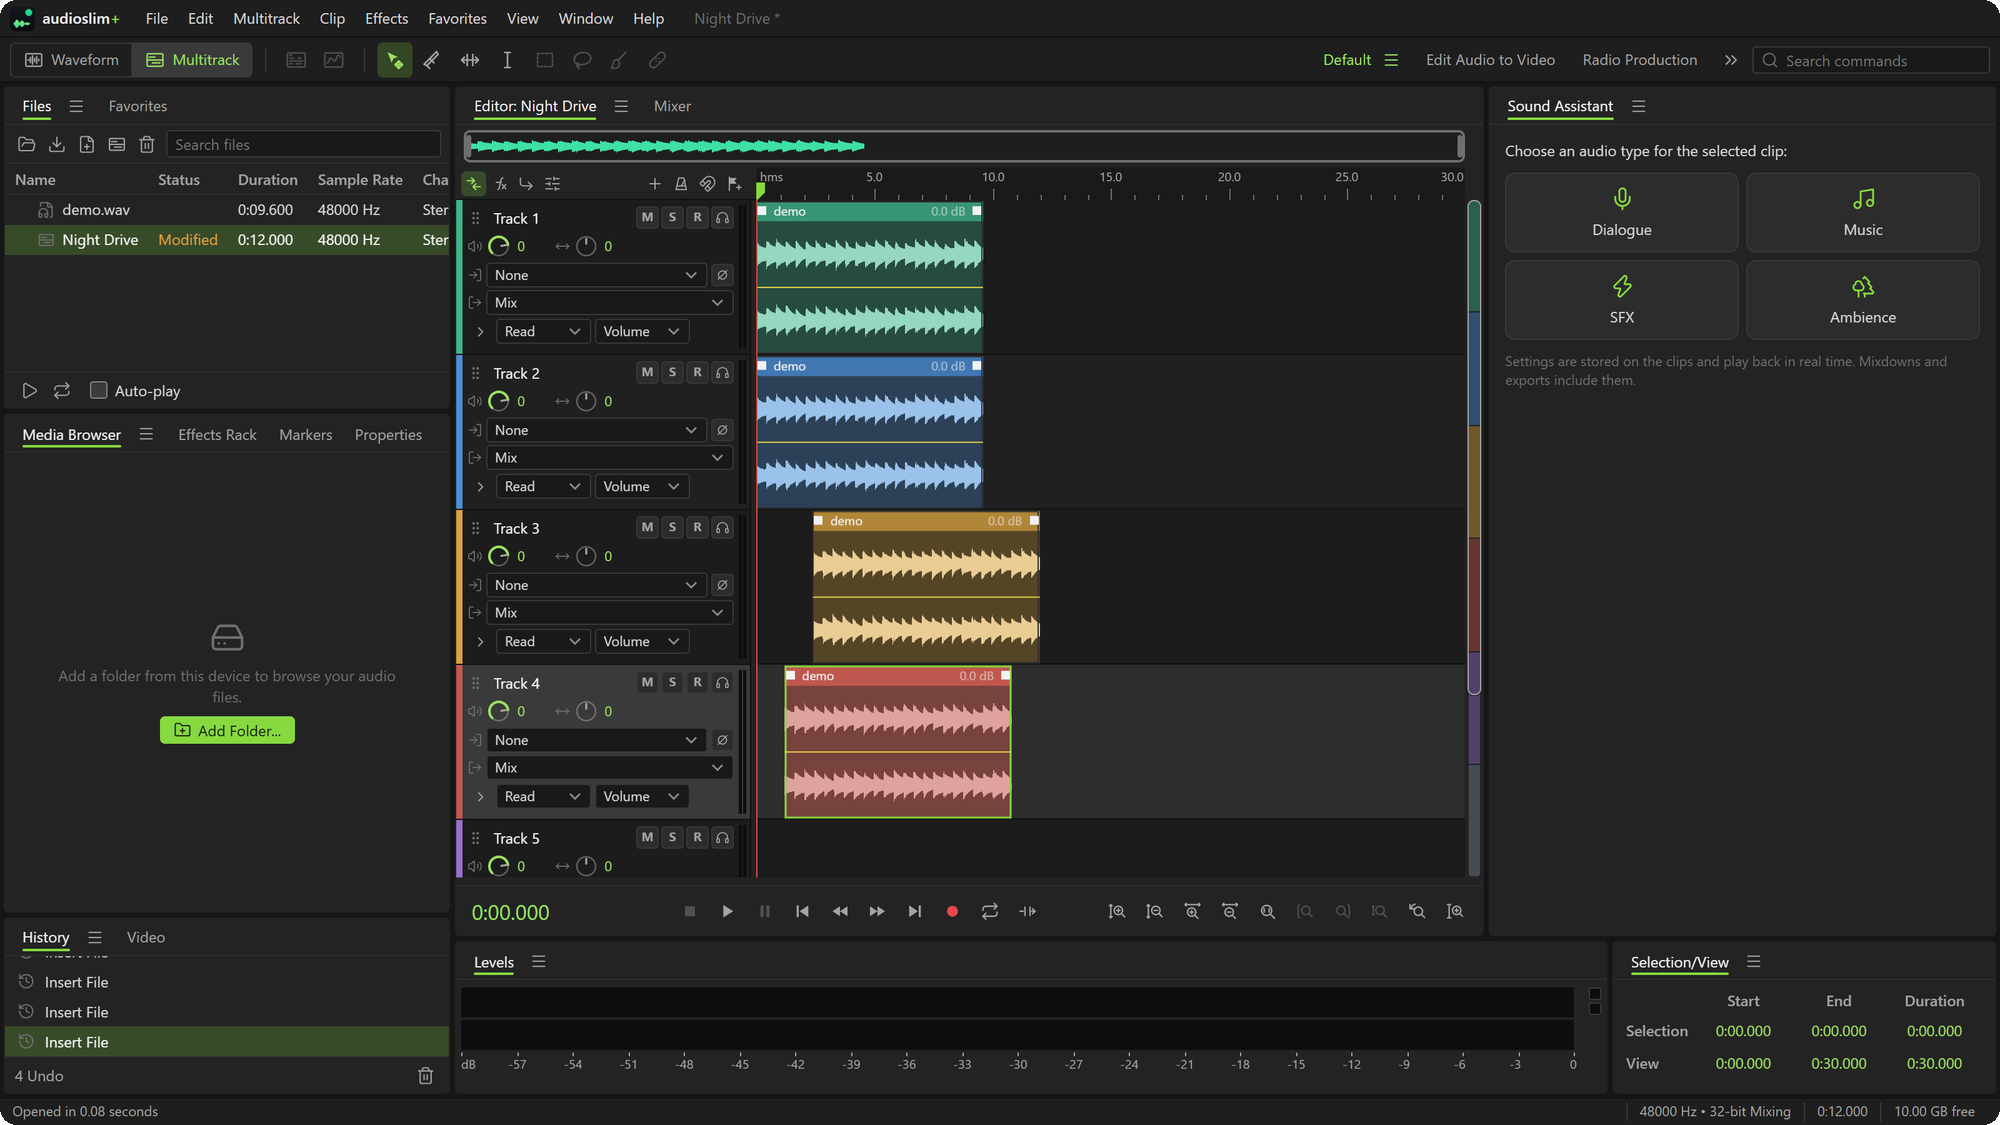
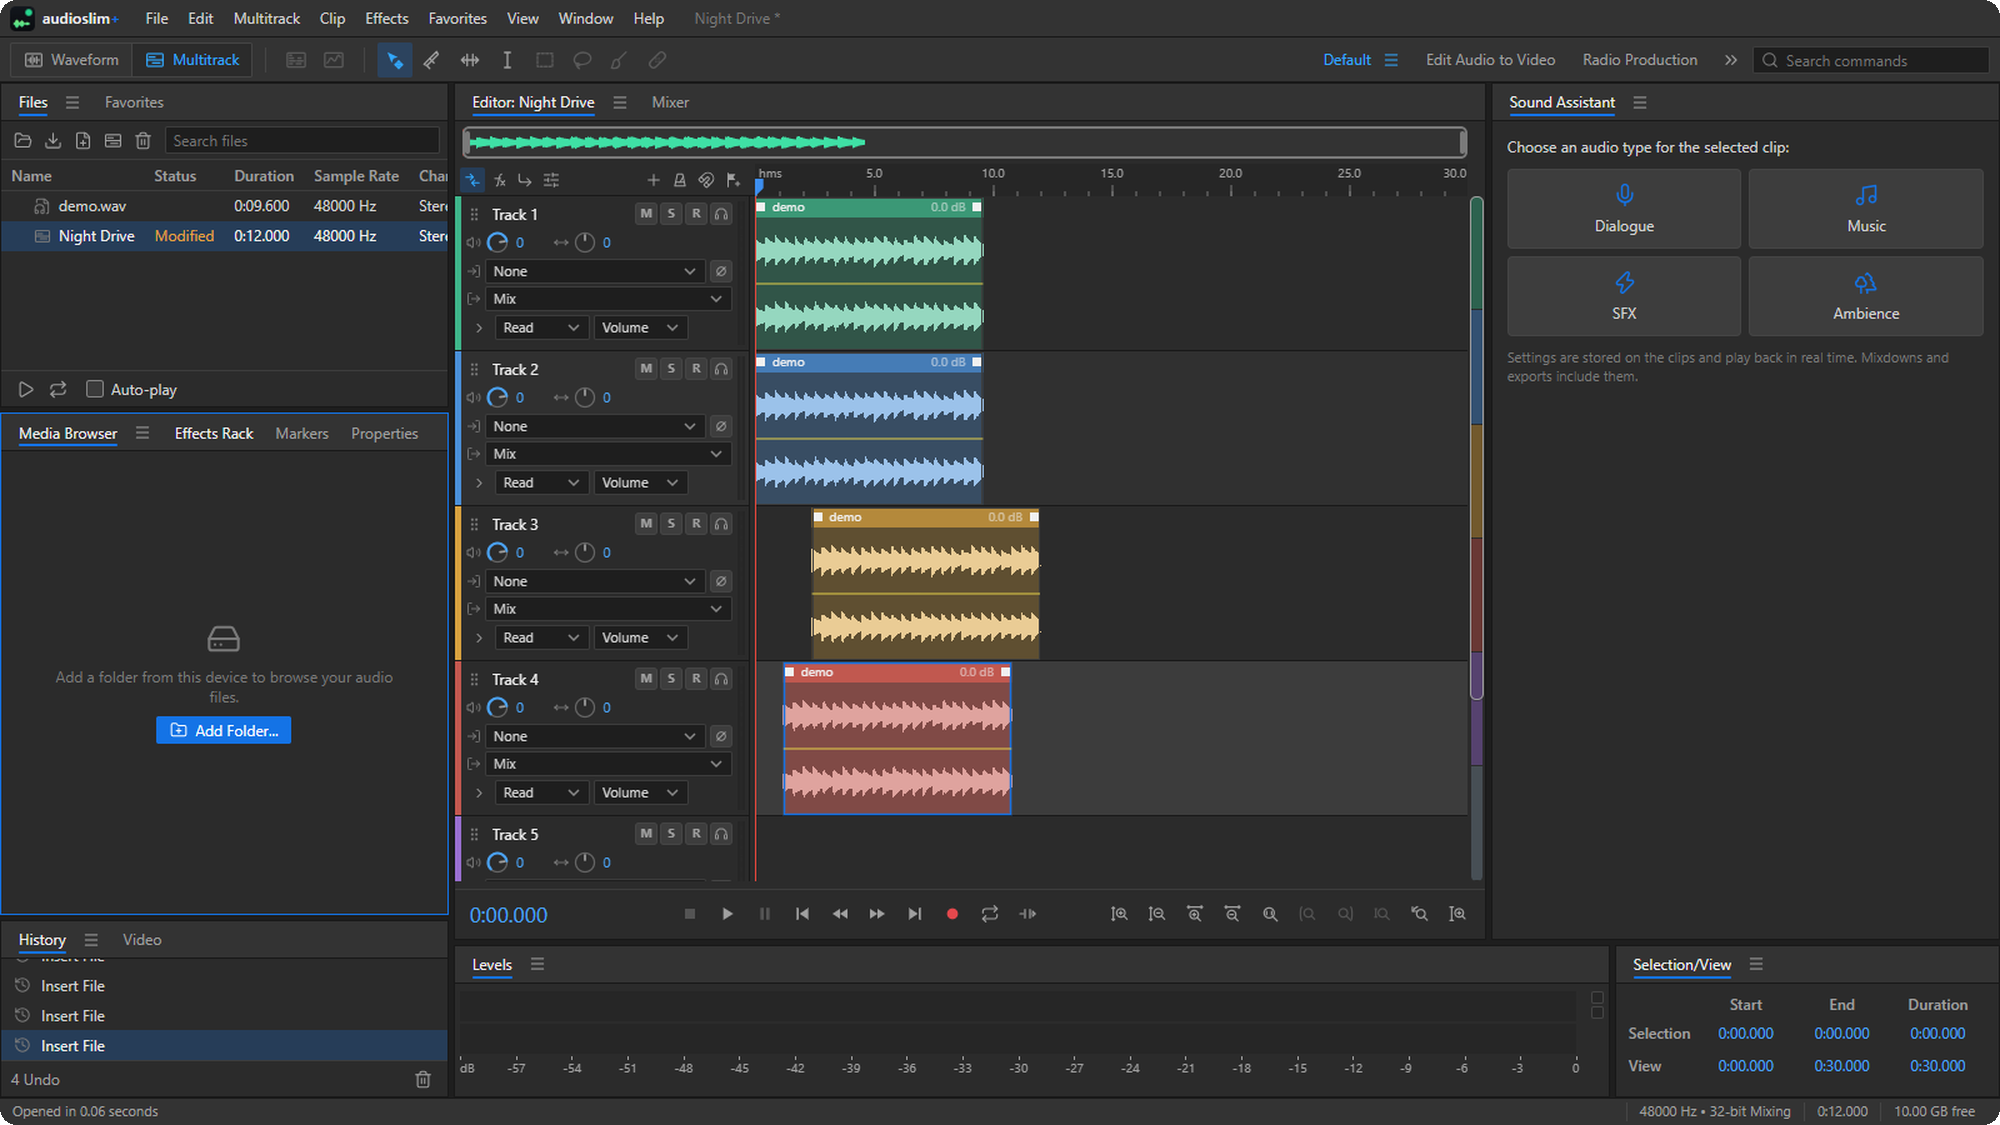
Restyle the interface after a Photoshop workspace
- The dark theme is now the classic Photoshop palette: a #1e1e1e pasteboard,
  #2b2b2b panels, flat gray controls and a #1473e6 accent.
- Panels are square and packed with hairline separators, the way a Photoshop
  dock is, and the corners are tighter throughout.
- The blue accent is the default; the audioslim+ lime stays available under
  Preferences > Appearance.
- Screenshots refreshed with the new look.

diff --git a/src/styles/tokens.css b/src/styles/tokens.css
@@ -1,6 +1,7 @@
-/* Design tokens. Dark is the default look of a pro audio workspace; light keeps
-   the same hierarchy with inverted surfaces. data-theme-resolved is set by
-   theme.js before first paint (see index.html). */
+/* Design tokens. The dark theme is the classic Photoshop workspace: a
+   medium-dark gray pasteboard, slightly lighter panels, flat gray controls and
+   a blue accent. Light keeps the same hierarchy with inverted surfaces.
+   data-theme-resolved is set by theme.js before first paint (see index.html). */
 
 :root {
   --font-ui: system-ui, -apple-system, 'Segoe UI', Roboto, 'Helvetica Neue', Arial, sans-serif;
@@ -10,50 +11,51 @@
   --fs-md: 12px;
   --fs-lg: 14px;
   --fs-xl: 18px;
-  --radius-sm: 3px;
-  --radius: 4px;
-  --radius-lg: 8px;
+  --radius-sm: 2px;
+  --radius: 2px;
+  --radius-lg: 4px;
   --row: 24px;
   --control: 22px;
   --tab: 30px;
   --gap: 6px;
-  --ease: cubic-bezier(0.2, 0, 0, 1);
+  --ease: cubic-bezier(0.2, 0, 1);
 }
 
 :root,
 :root[data-theme-resolved='dark'] {
   color-scheme: dark;
-  --bg-app: #161616;
-  --bg-panel: #232323;
-  --bg-panel-alt: #1e1e1e;
-  --bg-raised: #2c2c2c;
-  --bg-input: #191919;
-  --bg-hover: #303030;
-  --bg-active: #3a3a3a;
-  --bg-editor: #050505;
-  --bg-track: #1c1c1c;
-  --bg-track-alt: #202020;
-  --bg-ruler: #1a1a1a;
-  --border: #111111;
-  --border-soft: #2f2f2f;
-  --divider: #383838;
-  --text: #d6d6d6;
-  --text-strong: #f2f2f2;
-  --text-dim: #a3a3a3;
-  --text-faint: #6f6f6f;
-  --accent: #2d8ceb;
-  --accent-strong: #4aa3f5;
+  /* The workspace behind the panels, and the pasteboard around the audio. */
+  --bg-app: #1e1e1e;
+  --bg-panel: #2b2b2b;
+  --bg-panel-alt: #333333;
+  --bg-raised: #3d3d3d;
+  --bg-input: #1e1e1e;
+  --bg-hover: #474747;
+  --bg-active: #2b2b2b;
+  --bg-editor: #1e1e1e;
+  --bg-track: #2b2b2b;
+  --bg-track-alt: #303030;
+  --bg-ruler: #262626;
+  --border: #181818;
+  --border-soft: #3d3d3d;
+  --divider: #454545;
+  --text: #d4d4d4;
+  --text-strong: #f0f0f0;
+  --text-dim: #a0a0a0;
+  --text-faint: #7a7a7a;
+  --accent: #1473e6;
+  --accent-strong: #31a8ff;
   --accent-text: #ffffff;
-  --accent-soft: rgba(45, 140, 235, 0.22);
-  --hot: #4ea6f2;
-  --focus: #5aaeff;
+  --accent-soft: rgba(20, 115, 230, 0.24);
+  --hot: #4aa3f5;
+  --focus: #31a8ff;
   --wave: #3fe0a5;
   --wave-2: #6cb6ff;
   --wave-3: #f2b04c;
   --wave-4: #e47ad6;
   --wave-dim: #227a5b;
   --wave-sel: #b7ffe4;
-  --wave-center: #1b3d31;
+  --wave-center: #24443a;
   --grid: rgba(255, 255, 255, 0.06);
   --grid-strong: rgba(255, 255, 255, 0.12);
   --wave-grid: rgba(52, 199, 89, 0.16);
@@ -70,34 +72,34 @@
   --meter-green: #2fbf57;
   --meter-yellow: #d6c33a;
   --meter-red: #e5484d;
-  --meter-bg: #0d0d0d;
+  --meter-bg: #262626;
   --envelope-vol: #e5d14a;
   --envelope-pan: #4aa3f5;
   --clip-header: rgba(255, 255, 255, 0.09);
-  --overlay: rgba(0, 0, 0, 0.55);
-  --scrollbar: #444;
+  --overlay: rgba(0, 0, 0, 0.6);
+  --scrollbar: #5a5a5a;
 }
 
 :root[data-theme-resolved='light'] {
   color-scheme: light;
   --bg-app: #d4d4d4;
-  --bg-panel: #ececec;
-  --bg-panel-alt: #e4e4e4;
+  --bg-panel: #e8e8e8;
+  --bg-panel-alt: #f0f0f0;
   --bg-raised: #f7f7f7;
   --bg-input: #ffffff;
-  --bg-hover: #dddddd;
-  --bg-active: #d0d0d0;
-  --bg-editor: #fbfbfb;
+  --bg-hover: #dadada;
+  --bg-active: #c9c9c9;
+  --bg-editor: #ededed;
   --bg-track: #f3f3f3;
   --bg-track-alt: #eeeeee;
-  --bg-ruler: #e6e6e6;
-  --border: #c2c2c2;
-  --border-soft: #d6d6d6;
-  --divider: #c8c8c8;
-  --text: #2a2a2a;
+  --bg-ruler: #e2e2e2;
+  --border: #b8b8b8;
+  --border-soft: #c8c8c8;
+  --divider: #bcbcbc;
+  --text: #2b2b2b;
   --text-strong: #111111;
-  --text-dim: #555555;
-  --text-faint: #6b6b6b;
+  --text-dim: #5a5a5a;
+  --text-faint: #757575;
   --accent: #1473e6;
   --accent-strong: #0d66d0;
   --accent-text: #ffffff;
@@ -132,7 +134,7 @@
   --envelope-pan: #0d66d0;
   --clip-header: rgba(0, 0, 0, 0.07);
   --overlay: rgba(0, 0, 0, 0.32);
-  --scrollbar: #b0b0b0;
+  --scrollbar: #a8a8a8;
 }
 
 @media (pointer: coarse) {

diff --git a/src/ui/appearance.js b/src/ui/appearance.js
@@ -9,12 +9,12 @@ import { resolvedTheme, parseColor, cssVar } from './theme.js';
 
 /**
  * Accent presets: [dark theme, light theme] colors, and the text color that
- * reads on top of them. 'audioslim+' is the brand look; 'blue' is the
- * theme's own default.
+ * reads on top of them. 'blue' is the theme's own default, the blue of a
+ * Photoshop workspace.
  */
 export const ACCENTS = [
+  { id: 'blue', label: 'Blue', dark: '#1473e6', light: '#1473e6' },
   { id: 'audioslim', label: 'audioslim+', dark: '#86d93f', light: '#4f8f0d', text: { dark: '#16210a', light: '#ffffff' } },
-  { id: 'blue', label: 'Blue', dark: '#2d8ceb', light: '#1473e6' },
   { id: 'violet', label: 'Violet', dark: '#8f6cf0', light: '#6d48d8' },
   { id: 'teal', label: 'Teal', dark: '#1fb5a5', light: '#0d8478' },
   { id: 'amber', label: 'Amber', dark: '#e0962b', light: '#b06a0b' },

diff --git a/src/styles/shell.css b/src/styles/shell.css
@@ -247,7 +247,7 @@
   flex: 1;
   min-height: 0;
   min-width: 0;
-  padding: 3px;
+  padding: 0;
   gap: 0;
 }
 
@@ -294,8 +294,8 @@
   flex-direction: column;
   min-width: 60px;
   min-height: 48px;
-  border: 1px solid transparent;
-  border-radius: var(--radius);
+  border: 1px solid var(--border);
+  border-radius: 0;
   background: var(--bg-panel);
   overflow: hidden;
 }
@@ -313,7 +313,8 @@
   flex: none;
   overflow-x: auto;
   scrollbar-width: none;
-  border-bottom: 1px solid var(--border-soft);
+  background: var(--bg-panel-alt);
+  border-bottom: 1px solid var(--border);
 }
 
 .panel-tabs::-webkit-scrollbar {

diff --git a/src/lib/prefs.js b/src/lib/prefs.js
@@ -56,7 +56,7 @@ export const DEFAULTS = {
   zoomStep: 50, // percent of the view each Zoom In/Out (Time) step removes
   dismissedNotices: [], // notice ids turned off with "Don't show this again"
   // Appearance
-  accentColor: 'audioslim',
+  accentColor: 'blue',
   waveColors: null, // { wave, selection, background } or null for the theme colors
   waveColorPresets: [], // [{ name, wave, selection, background, playhead, cue, subclip, cart, cd }]
   uiBrightness: 0, // -100 (darker) .. 100 (lighter) for panels and backgrounds

diff --git a/src/styles/base.css b/src/styles/base.css
@@ -91,7 +91,7 @@ svg.icon {
   gap: 6px;
   height: var(--control);
   padding: 0 10px;
-  border: 1px solid var(--divider);
+  border: 1px solid var(--border);
   border-radius: var(--radius);
   background: var(--bg-raised);
   color: var(--text);
@@ -189,7 +189,7 @@ svg.icon {
   height: var(--control);
   min-width: 0;
   padding: 0 6px;
-  border: 1px solid var(--divider);
+  border: 1px solid var(--border-soft);
   border-radius: var(--radius-sm);
   background: var(--bg-input);
   color: var(--text);

diff --git a/tests/preferences.test.js b/tests/preferences.test.js
@@ -293,7 +293,7 @@ describe('appearance', () => {
     // The theme's own accent needs no overrides.
     expect(appearanceVars({ get: (k) => (k === 'accentColor' ? 'blue' : DEFAULTS[k]) }, 'dark')).toEqual({});
     // The brand accent does.
-    expect(appearanceVars({ get: (k) => DEFAULTS[k] }, 'dark')['--accent']).toBe('#86d93f');
+    expect(appearanceVars({ get: (k) => (k === 'accentColor' ? 'audioslim' : DEFAULTS[k]) }, 'dark')['--accent']).toBe('#86d93f');
   });
 });
 

diff --git a/README.md b/README.md
@@ -26,6 +26,7 @@
 - **Effects**: amplitude, delay, filter and EQ, modulation, restoration (noise prints, sound models, click/pop elimination, hum, reverb and hiss removal), reverb, special and time/pitch processors, all in WebAssembly, usable live in the Effects Rack and track chains or applied to a selection, with presets and Favorites.
 - **Analysis**: frequency analysis, amplitude statistics, phase meter, loudness measurement and matching, diagnostics.
 - **Workspace**: docked panels (Files, Media Browser, Markers, Playlist, Mixer, Tracks, Track Panner, Time, Zoom, Transport, Tools, Events, Video...) arranged in saved workspaces; categorized Preferences; MIDI control surfaces; batch processing; JavaScript automation scripts.
+- **Appearance**: a dark workspace in the style of a Photoshop canvas — a gray pasteboard, flat gray controls and a blue accent. **Preferences > Appearance** switches between light and dark, picks the accent colour, sets the waveform and marker colours, and lightens or darkens the interface.
 
 ![The audioslim+ multitrack editor](public/screenshot-multitrack.png)
 
